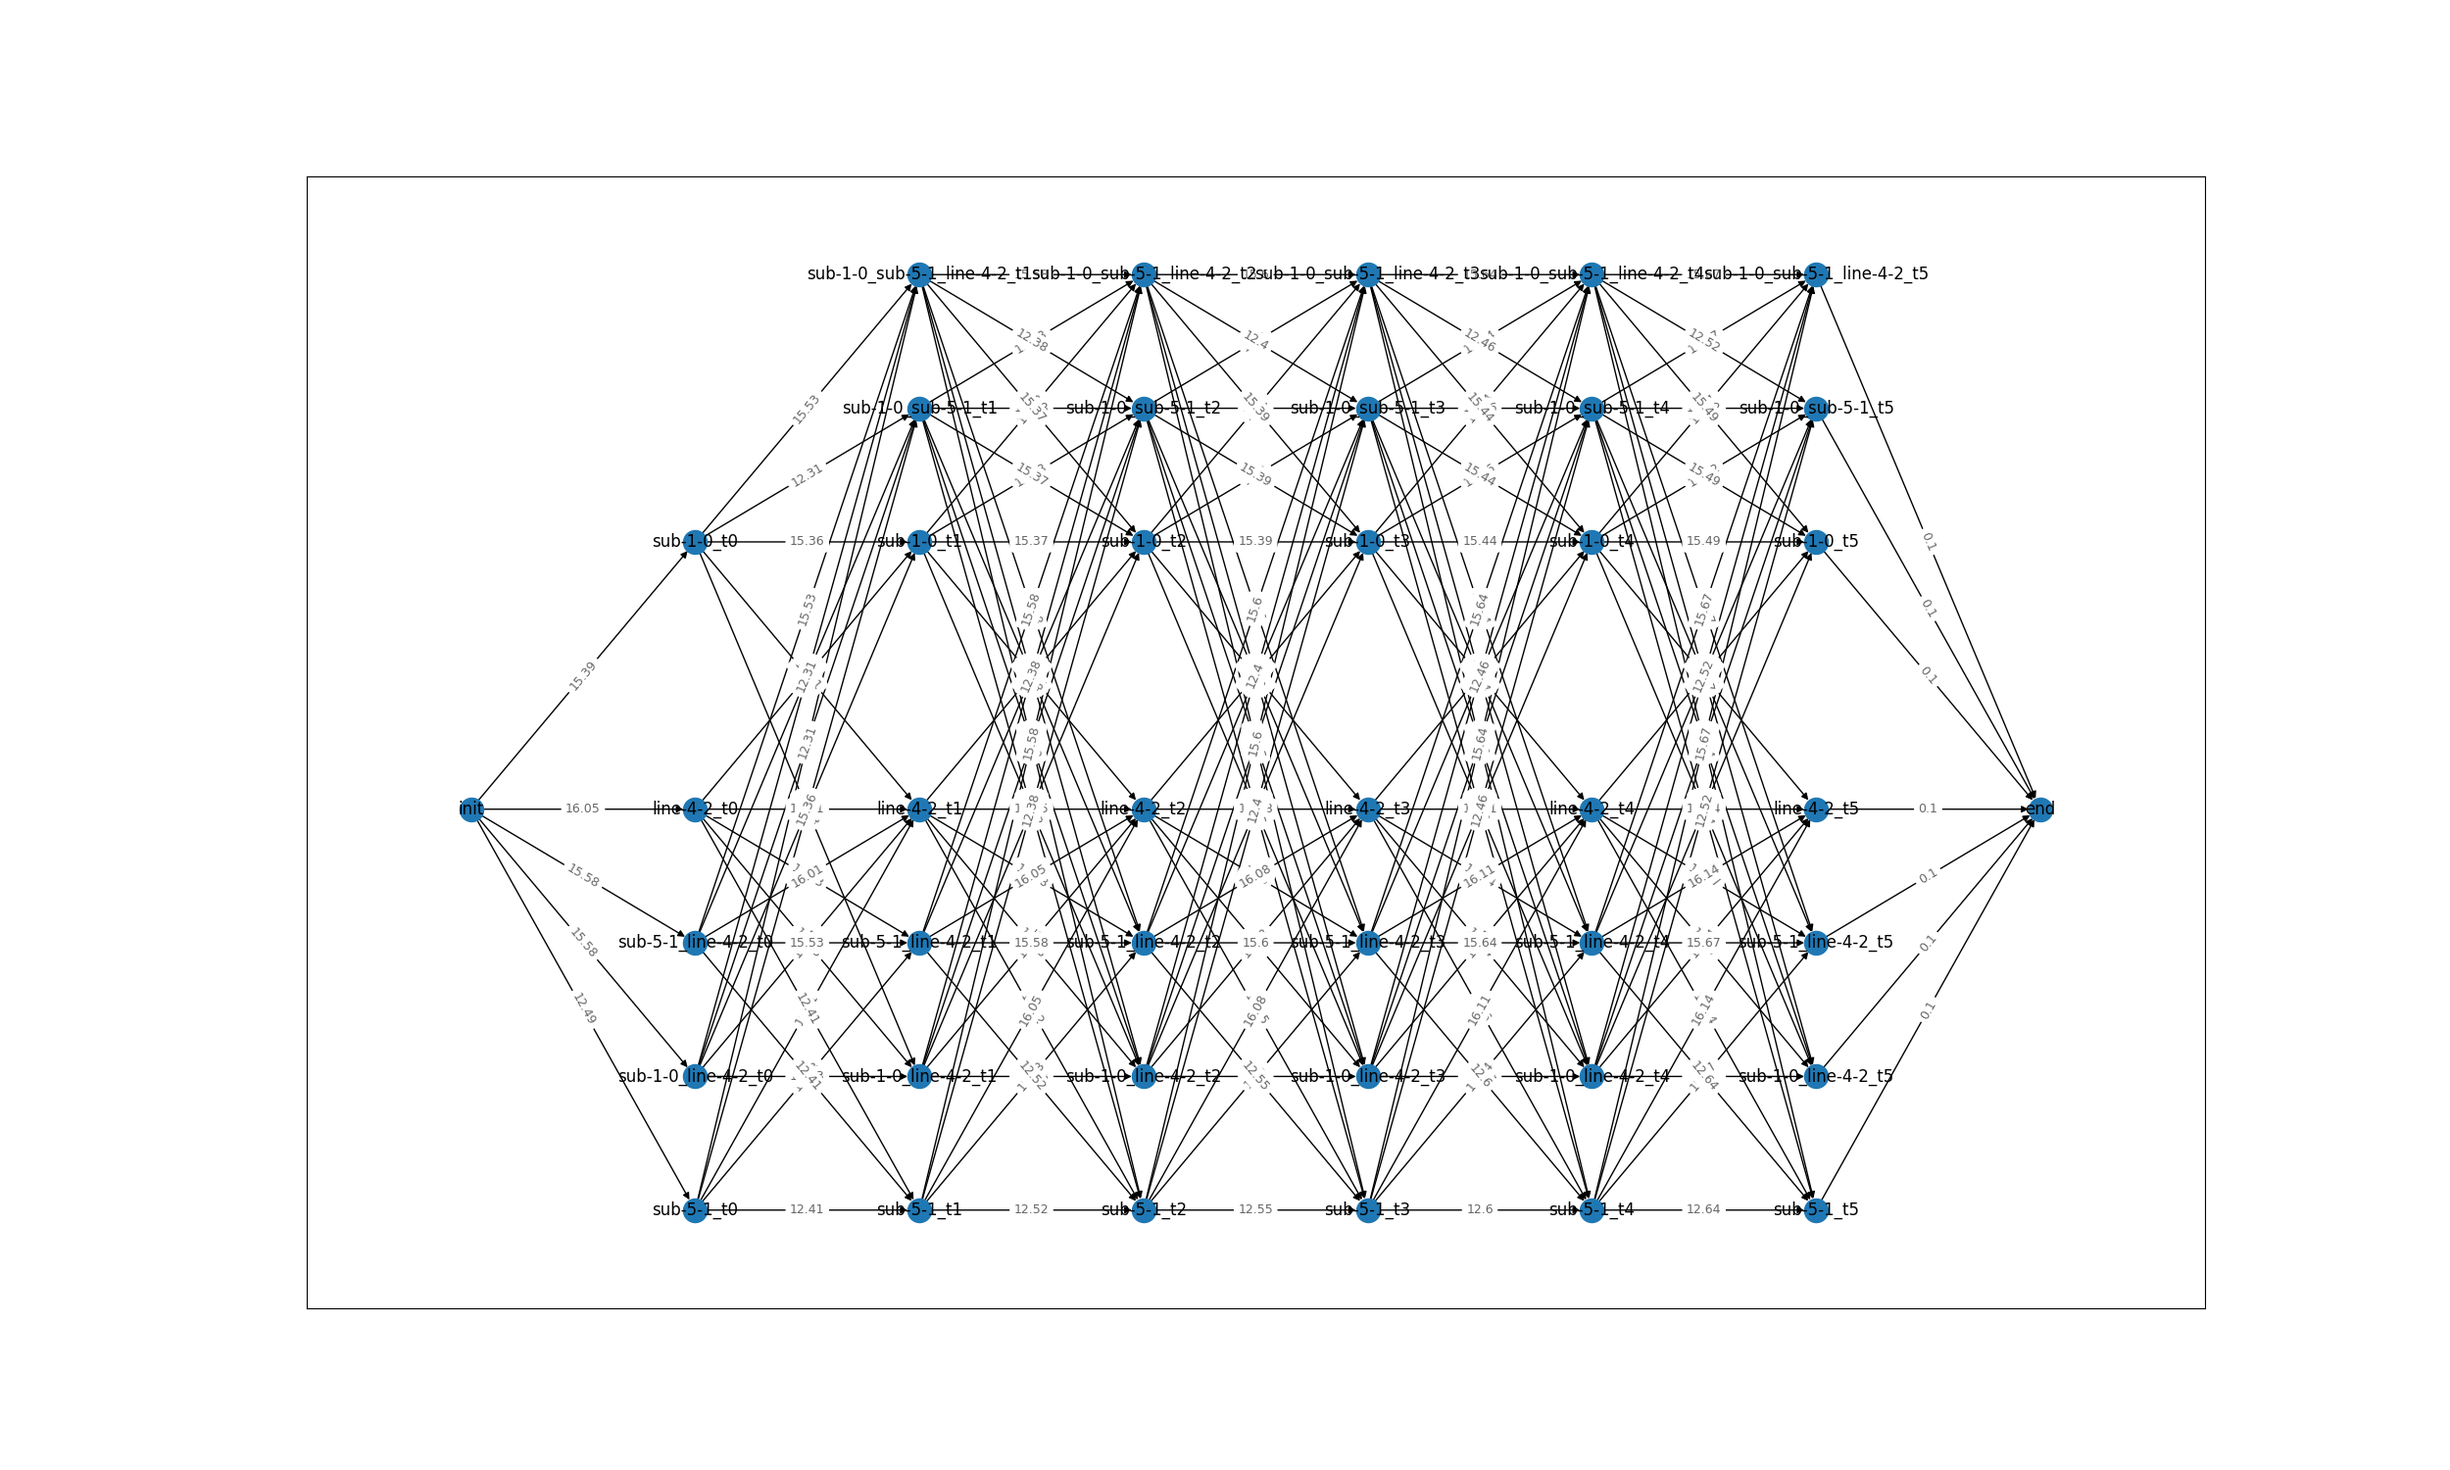
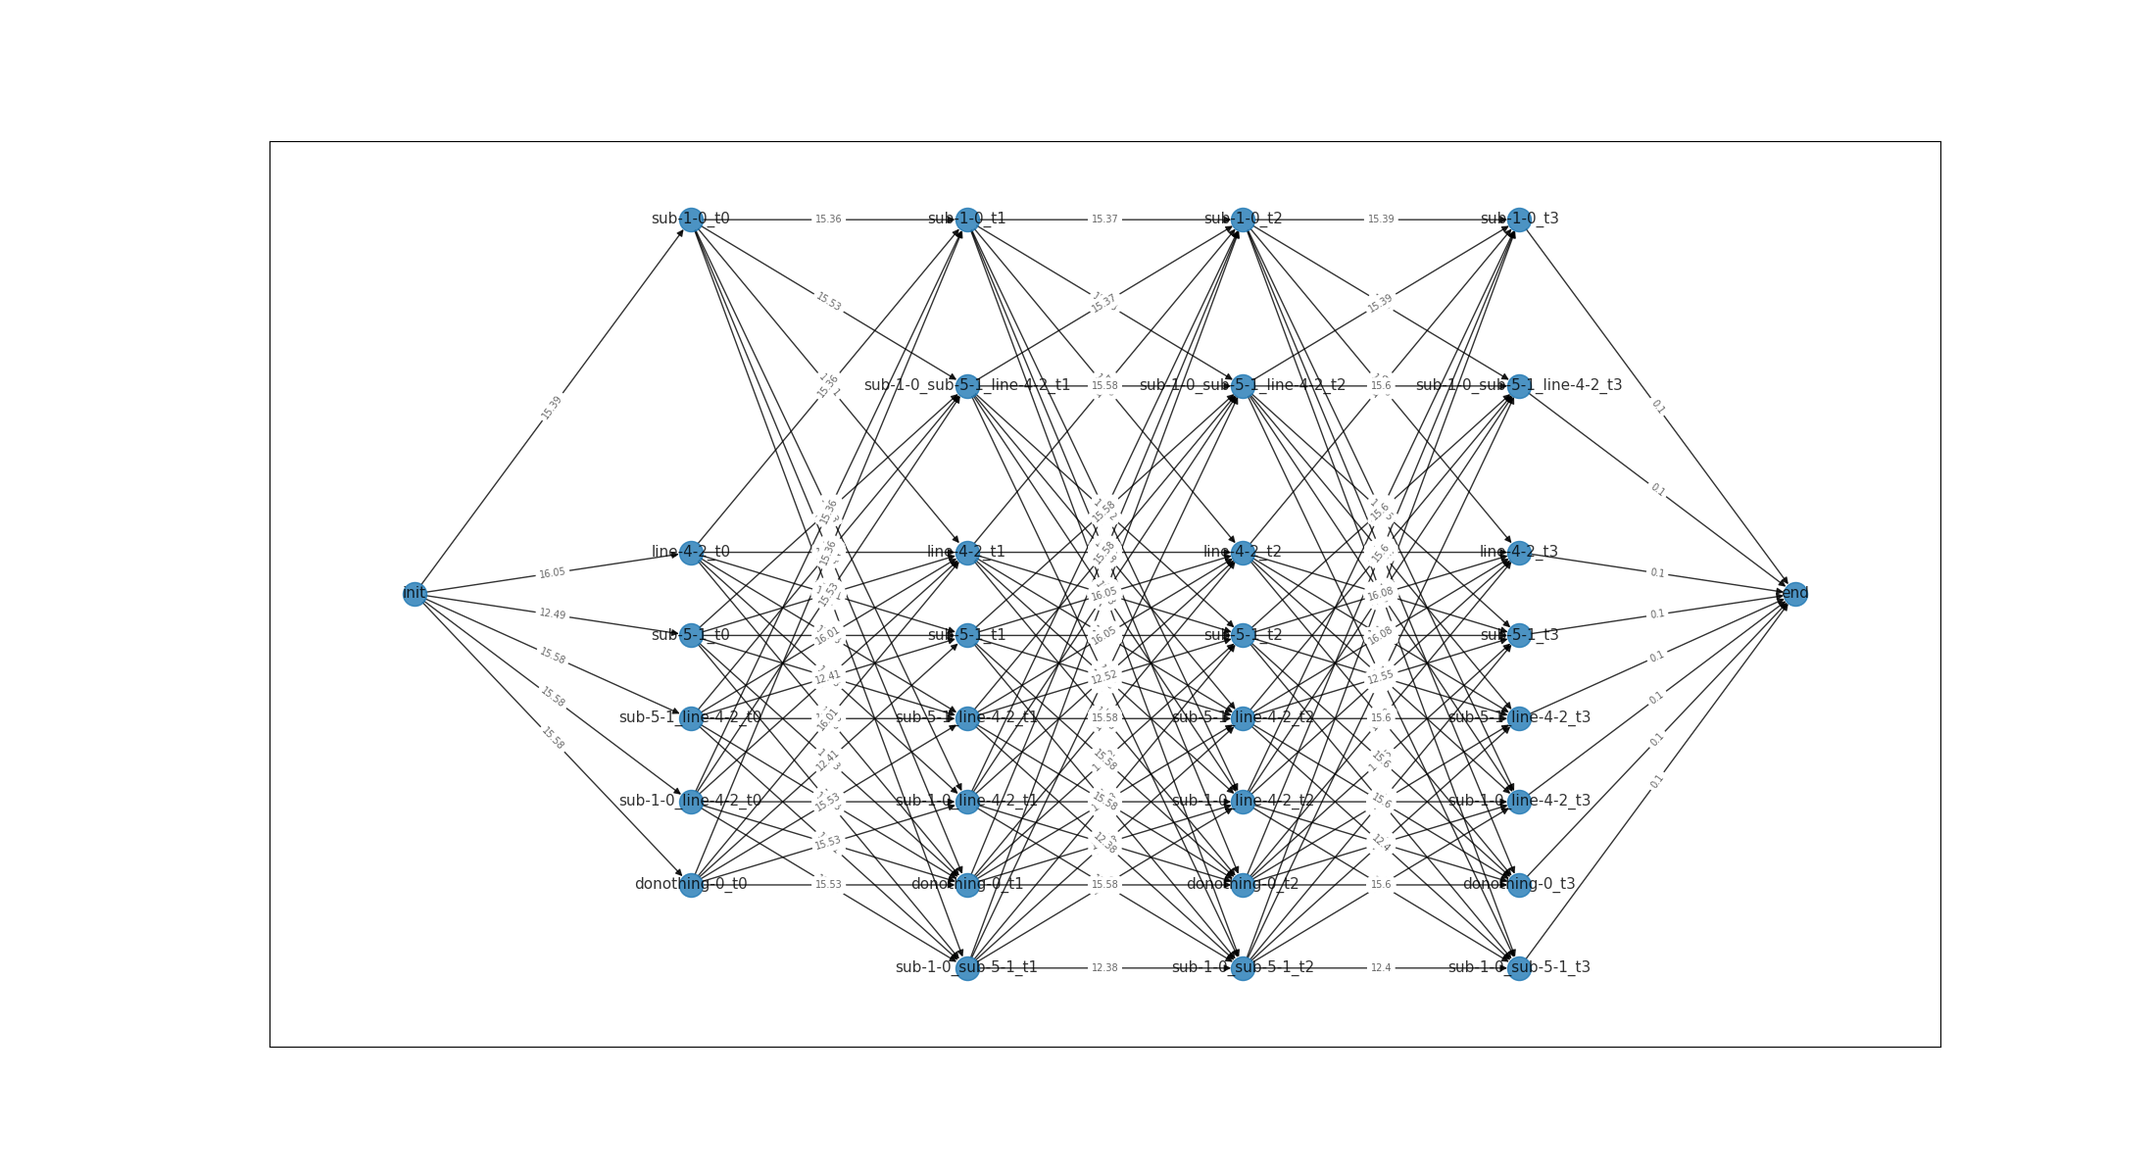
donothing action, new reward df serialisation - barplot - kpi error - new unitary actions for wcci and l2rpn2019

Changed region(s): [[0.1855, 0.1542, 0.8345, 0.8325], [0.2782, 0.3392, 0.3091, 0.4008]]

diff --git a/oracle4grid/core/graph/indicators.py b/oracle4grid/core/graph/indicators.py
@@ -2,6 +2,10 @@ import pandas as pd
 
 SHORTEST = "shortest"
 LONGEST = "longest"
+MSG_DONOTHING = "Do Nothing in ref topo"
+MSG_TOPO = " then do nothing"
+MSG_GAMERULES = "Best possible path with game rules"
+MSG_NOGAMERULE = "Best path without transition constraint"
 
 def generate(best_path, reward_df, best_path_type, N, debug = False):
     if debug:
@@ -12,8 +16,7 @@ def generate(best_path, reward_df, best_path_type, N, debug = False):
     results = []
 
     # Pure donothing
-    # TODO: simulation?
-    donothing = compute_reward_donothing()
+    donothing = compute_reward_donothing(reward_df)
     results.append(donothing)
 
     # Apply best topos and then do nothing
@@ -29,21 +32,44 @@ def generate(best_path, reward_df, best_path_type, N, debug = False):
     best_without_transitions = get_best_path_without_constraints(reward_df, best_path_type)
     results.append(best_without_transitions)
 
-    # Best path with only one action transitions allowed
-    # TODO: generer autre graphe? OU ELAGUER LE GRAPH ACTUEL? PASSE EN ARGUMENT
-    best_with_oneaction_transitions = get_best_path_with_oneaction_transitions(reward_df, best_path_type)
-    results.append(best_with_oneaction_transitions)
-
     indicators = pd.DataFrame(data=results,
                               columns=['Indicator name', 'Reward value']).sort_values(by = 'Reward value',
                                                                                       ascending=(best_path_type==SHORTEST))
+    # Check if systematic order is respected
+    check, message = check_indicators_order(donothing[1], best[1], best_without_transitions[1], best_path_type)
+    if not check:
+        raise ValueError(message)
     return indicators
+
+def check_indicators_order(donothing, best, best_without_transitions, best_path_type):
+    check = True
+    message = ""
+
+    if best_path_type == SHORTEST:
+        # Check if best path better than donothing
+        if donothing < best:
+            check = False
+            message = "Indicator '"+MSG_DONOTHING+"' is better than indicator '"+MSG_GAMERULES
+        # Check if best without game rule better than best with game rules
+        if best < best_without_transitions:
+            check = False
+            message = "Indicator '"+MSG_GAMERULES+"' is better than indicator '"+MSG_NOGAMERULE
+    elif best_path_type == LONGEST:
+        # Check if best path better than donothing
+        if donothing > best:
+            check = False
+            message = "Indicator '"+MSG_DONOTHING+"' is better than indicator '"+MSG_GAMERULES+ " which should not be possible"
+        # Check if best without game rule better than best with game rules
+        if best > best_without_transitions:
+            check = False
+            message = "Indicator '"+MSG_GAMERULES+"' is better than indicator '"+MSG_NOGAMERULE+ " which should not be possible"
+    return check, message
 
 def get_best_path_reward(best_path, reward_df):
     reward = 0.
     for t ,action in enumerate(best_path):
         reward += reward_df.loc[(reward_df['name']==action.name)&(reward_df['timestep']==t),'reward'].values[0]
-    return ['Best possible path with game rules', reward]
+    return [MSG_GAMERULES, reward]
 
 def get_best_path_without_constraints(reward_df, best_path_type):
     if best_path_type == SHORTEST:
@@ -53,17 +79,13 @@ def get_best_path_without_constraints(reward_df, best_path_type):
     else:
         raise ValueError('best path type in config.ini should be longest or shortest')
     reward = reward_df.groupby('timestep').agg({'reward':fun})['reward'].sum()
-    return ['Best path without transition constraint', reward]
-
-def get_best_path_with_oneaction_transitions(reward_df, best_path_type):
-    return ['Best path with only one-action transitions', 0.]
-
+    return [MSG_NOGAMERULE, reward]
 
 def compute_reward_topo_then_donothing(reward_df, topos):
     results = []
     for topo in topos:
         reward = reward_df.loc[reward_df['name']==topo.name,'reward'].sum()
-        results.append(["Apply "+str(topo)+" then do nothing", reward])
+        results.append([str(topo)+MSG_TOPO, reward])
     return results
 
 def get_best_topos(best_path, N):
@@ -75,7 +97,7 @@ def get_best_topos(best_path, N):
     return best_topos_series.index.tolist()
 
 
-def compute_reward_donothing():
-    # TODO
-    return ["Do Nothing in ref topo", 0.]
+def compute_reward_donothing(reward_df, donothing_id = 0):
+    donothing = reward_df.loc[reward_df['name']==donothing_id,'reward'].sum()
+    return [MSG_DONOTHING, donothing]
 

diff --git a/oracle4grid/core/oracle.py b/oracle4grid/core/oracle.py
@@ -1,6 +1,8 @@
 import os
+import json
 import pickle
 import numpy as np
+import pandas as pd
 import matplotlib.pyplot as plt
 import networkx as nx
 
@@ -12,9 +14,6 @@ from oracle4grid.core.utils.config_ini_utils import MAX_ITER, MAX_DEPTH, NB_PROC
 from oracle4grid.core.utils.serialization import draw_graph
 
 
-# runs all steps one by one
-# handles visualisation in each step
-
 def oracle(atomic_actions, env, debug, config, debug_directory=None):
     # 0 - Preparation : Get initial topo and line status
     init_topo_vect, init_line_status = get_initial_configuration(env)
@@ -23,10 +22,10 @@ def oracle(atomic_actions, env, debug, config, debug_directory=None):
     actions = combinator.generate(atomic_actions, int(config[MAX_DEPTH]), env, debug, init_topo_vect, init_line_status)
 
     # 2 - Actions rewards simulation
-    reward_df = run_many.run_all(actions, env, int(config[MAX_ITER]), int(config[NB_PROCESS]))
+    reward_df = run_many.run_all(actions, env, int(config[MAX_ITER]), int(config[NB_PROCESS]), debug=debug)
     if debug:
         print(reward_df)
-        reward_df.to_csv(os.path.join(debug_directory, "reward_df.csv"), sep=';', index=False)
+        serialize_reward_df(reward_df, debug_directory)
         # serialize(reward_df, name='reward_df', dir=debug_directory)
         # reward_df = load_serialized_object('reward_df', debug_directory)
 
@@ -42,7 +41,13 @@ def oracle(atomic_actions, env, debug, config, debug_directory=None):
 
     if debug:
         print(best_path)
-        # print(grid2op_action_path) # le print est lourd
+        # Serialization for agent replay
+        serialize(grid2op_action_path, 'best_path_grid2op_action',
+                  dir=debug_directory, format='pickle')
+        topo_count = display_topo_count(best_path, dir = debug_directory)
+        print('10 best topologies in optimal path')
+        print(topo_count)
+
 
     # 5 - Indicators computation
     kpis = indicators.generate(best_path, reward_df, config["best_path_type"], int(config[N_TOPOS]), debug=debug)
@@ -52,11 +57,29 @@ def oracle(atomic_actions, env, debug, config, debug_directory=None):
 
     return best_path, grid2op_action_path
 
+def display_topo_count(best_path, dir, n_best = 10):
+    best_path_df = pd.Series(best_path)
+    topo_count = best_path_df.value_counts().head(n_best)
+    fig, ax = plt.subplots(1, 1, figsize=(22, 15))
+    topo_count.plot.bar(ax = ax)
+    fig.savefig(os.path.join(dir, "best_path_topologies_count.png"))
+    return topo_count
 
-def serialize(obj, name, dir):
-    outfile = open(os.path.join(dir, name + ".pkl"), 'wb')
-    pickle.dump(obj, outfile)
-    outfile.close()
+def serialize_reward_df(reward_df, dir):
+    df = reward_df.copy()
+    df = df.set_index(['action','timestep'])
+    df = df.unstack(level=0)['reward']
+    df.to_csv(os.path.join(dir, "reward_df.csv"), sep=';', index=True)
+
+def serialize(obj, name, dir, format = 'pickle'):
+    if format == 'pickle':
+        outfile = open(os.path.join(dir, name + ".pkl"), 'wb')
+        pickle.dump(obj, outfile)
+        outfile.close()
+    elif format == 'json':
+        outfile = open(os.path.join(dir, name + ".json"), 'w')
+        json.dump(obj, outfile)
+        outfile.close()
 
 def load_serialized_object(name, dir):
     infile = open(os.path.join(dir, name + ".pkl"), 'rb')
@@ -91,14 +114,14 @@ def draw_graph(graph, max_iter, save = None):
         layout[node] = np.array([x,y])
 
     ## Plot graph with its layout
-    fig, ax = plt.subplots(1, 1, figsize=(25, 15))
+    fig, ax = plt.subplots(1, 1, figsize=(22, 12))
     # Graph structure
-    nx.draw_networkx(graph, pos = layout, ax = ax)
+    nx.draw_networkx(graph, pos = layout, ax = ax, font_size = 11, alpha = 0.8)
     # Rounded labels
     labels = nx.get_edge_attributes(graph, 'weight')
     for k, v in labels.items():
         labels[k] = round(v, 2)
-    nx.draw_networkx_edge_labels(graph, pos = layout, edge_labels=labels, font_size = 9, alpha = 0.6)
+    nx.draw_networkx_edge_labels(graph, pos = layout, edge_labels=labels, font_size = 7, alpha = 0.6)
     if save is not None:
        fig.savefig(os.path.join(save,"graphe.png"))
 

diff --git a/oracle4grid/core/actions_utils/combinator.py b/oracle4grid/core/actions_utils/combinator.py
@@ -28,11 +28,13 @@ def generate_all(atomic_actions, depth, env, init_topo_vect, init_line_status):
     named_atomic_actions = get_atomic_actions_names(atomic_actions)
     all_names_combinations = reduce(operator.concat, [list(combinations(named_atomic_actions, i)) for i in range(1, (depth + 1))])
 
-    all_actions = [OracleAction(i, names_combination, [named_atomic_actions[name] for name in names_combination],
+    all_actions = [OracleAction(i+1, names_combination, [named_atomic_actions[name] for name in names_combination],
                                 env.action_space,
                                 init_topo_vect,
                                 init_line_status)
                    for i, names_combination in enumerate(all_names_combinations)]
+    # Add donothing action
+    all_actions.append(OracleAction(0, ['donothing-0'], [], env.action_space, init_topo_vect, init_line_status))
     return all_actions
 
 

diff --git a/oracle4grid/core/utils/Action.py b/oracle4grid/core/utils/Action.py
@@ -20,12 +20,6 @@ class OracleAction:
         # On ne veut pas stocker action_space et init_topo_vect mais juste les utiliser une fois dans la méthode qui formatte l'action en grid2Op
 
     def __str__(self):
-        # # TODO: use id of "unitary" OracleAction
-        # result = str(self.name)
-        # for sub in self.subs:
-        #     result += '_sub_'+str(sub)
-        # for line in self.lines:
-        #     result += '_line_'+str(line)
         return self.repr
 
     def __repr__(self):

diff --git a/oracle4grid/core/reward_computation/run_many.py b/oracle4grid/core/reward_computation/run_many.py
@@ -8,7 +8,10 @@ from tqdm import tqdm
 from oracle4grid.core.reward_computation.run_one import run_one
 
 
-def run_all(actions, env, max_iter=1, nb_process=1):
+def run_all(actions, env, max_iter=1, nb_process=1, debug = False):
+    if debug:
+        print('\n')
+        print("============== 2 - Rewards simulation ==============")
     if nb_process is 1:
         all_res = serie(env, actions, max_iter)
     else:
